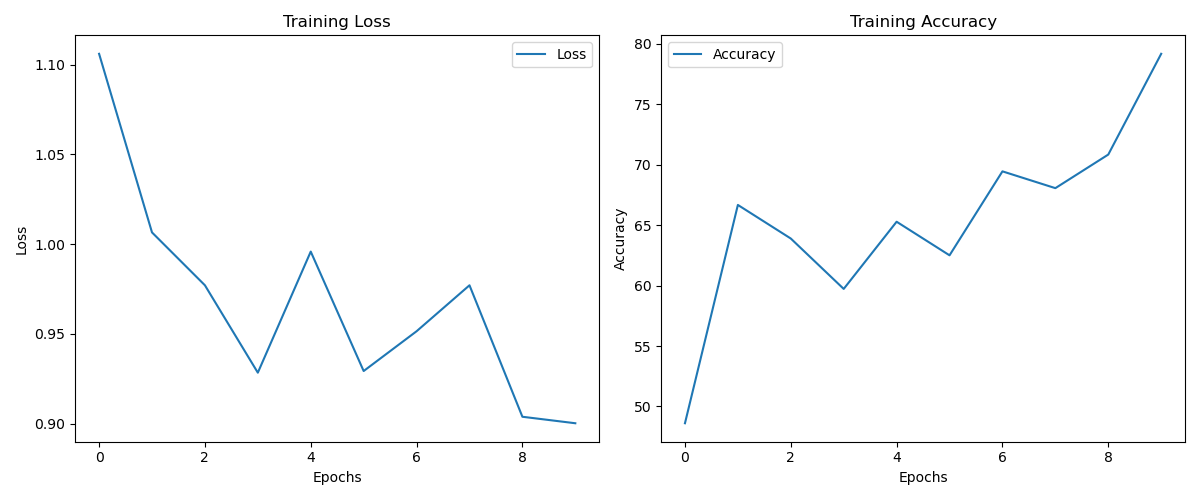
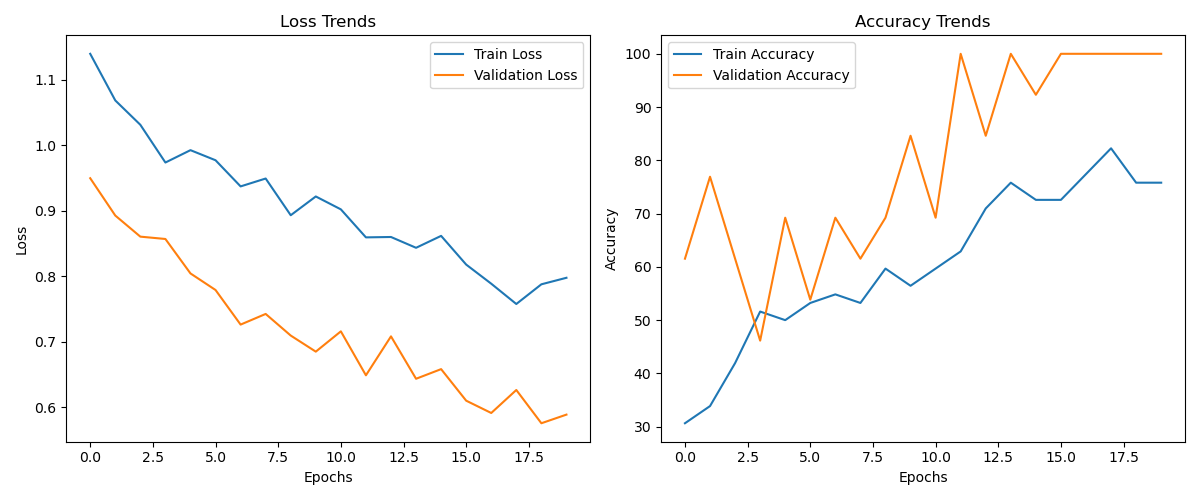
fifth commit

diff --git a/main.py b/main.py
@@ -18,17 +18,17 @@ INPUT_SIZE = 1024
 CLASS_NUM = 3
 LEARNING_RATE = 3e-4
 BATCH_SIZE = 32
-EPOCH_NUM = 50
-EARLY_STOPPING_PATIENCE = 5
+EPOCH_NUM = 80
+EARLY_STOPPING_PATIENCE = 8
 WEIGHT_DECAY = 1e-5
 
 # Change root directory to the directory where your datasets (images) are
-ROOT_DIR = "screenshots"
+ROOT_DIR = "your_datasets"
 
 # You need to create your own CSV file containing data labels
-# Currently data_labels.csv already contains sample format for your reference
+# Currently data_labels_sample.csv already contains sample format for your reference
 # You can edit it to tailor to your need
-CSV_FILE = "data_labels.csv"
+CSV_FILE = "data_labels_sample.csv"
 
 # Change to your own model file name if any
 MODEL_FILE = "model.pth.tar"
@@ -112,10 +112,8 @@ def train_model(model, train_loader, val_loader, criterion, optimizer, scheduler
         # Record metrics
         train_result["train_loss"].append(train_loss)
         train_result["val_loss"].append(val_loss)
-        # In the training loop, where you record the accuracies:
         train_result["train_accuracy"].append(train_accuracy.cpu().numpy())
         train_result["val_accuracy"].append(val_accuracy.cpu().numpy())
-
 
         # Print metrics
         print(f"Epoch [{epoch+1}/{num_epochs}], "
@@ -124,38 +122,35 @@ def train_model(model, train_loader, val_loader, criterion, optimizer, scheduler
               f"Train Accuracy: {train_accuracy:.2f}%, "
               f"Val Accuracy: {val_accuracy:.2f}%")
 
-        # # Save the best model
-        # if val_accuracy > best_val_accuracy:
-        #     best_val_accuracy = val_accuracy
-        #     save_model(model, optimizer, MODEL_FILE)
-        #     patience_counter = 0
-        # else:
-        #     patience_counter += 1
+        # Save the best model
+        if val_accuracy > best_val_accuracy:
+            best_val_accuracy = val_accuracy
+            save_model(model, optimizer, MODEL_FILE)
+            patience_counter = 0
+        else:
+            patience_counter += 1
 
-        # # Early stopping
-        # if patience_counter >= EARLY_STOPPING_PATIENCE:
-        #     print("Early stopping triggered.")
-        #     break
+        # Early stopping to prevent overfitting
+        if patience_counter >= EARLY_STOPPING_PATIENCE:
+            print("Early stopping triggered.")
+            break
 
-    # print(f"Best model saved with best accuracy: {best_val_accuracy:.4f}")
     return train_result
 
 
 def visualize_result(training_result, train_loader, val_loader, test_loader, model):
-    # Plot training metrics
+    """Visualize the training result with loss and accuracy plot, and confusion matrix."""
     plot_metrics(training_result)
 
-    # Check model's accuracy
-    print("Training Set Accuracy:")
-    check_accuracy(train_loader, model, device)
+    train_accuracy = check_accuracy(train_loader, model, device)
+    print(f"Training Set Accuracy: {train_accuracy:.2f}")
 
-    print("Validation Set Accuracy:")
-    check_accuracy(val_loader, model, device)
+    val_accuracy = check_accuracy(val_loader, model, device)
+    print(f"Validation Set Accuracy: {val_accuracy:.2f}")
 
-    print("Test Set Accuracy:")
-    check_accuracy(test_loader, model, device)
+    test_accuracy = check_accuracy(test_loader, model, device)
+    print(f"Test Set Accuracy: {test_accuracy:.2f}")
 
-    # Confusion matrix for the test set
     plot_confusion_matrix(test_loader, model, device)
 
 
@@ -170,18 +165,15 @@ def main():
     optimizer = optim.Adam(model.parameters(), lr=LEARNING_RATE, weight_decay=WEIGHT_DECAY)
     scheduler = torch.optim.lr_scheduler.ReduceLROnPlateau(optimizer, mode="min", factor=0.1, patience=2, verbose=True)
 
-    # Check if any model file exists in the directory
     if os.path.exists(MODEL_FILE):
         user_input = input(f"Model file '{MODEL_FILE}' detected. Do you want to load and train this model? (yes/no): ").strip().lower()
 
         if user_input == "yes":
             load_model(model, optimizer, MODEL_FILE)
 
-    # Print model summary
     print("Model Summary:")
     summary(model, input_size=(3, INPUT_SIZE, INPUT_SIZE))
 
-    # Data Augmentation
     transform = get_transform()
 
     dataset = ScreenshotDataset(
@@ -192,13 +184,10 @@ def main():
 
     train_loader, val_loader, test_loader = load_data(dataset)
 
-    # Visualize Augmented Samples
     visualize_augmentations(dataset)
 
-    # Train the model
     training_result = train_model(model, train_loader, val_loader, criterion, optimizer, scheduler, EPOCH_NUM, device)
 
-    # Visualize Training Results
     visualize_result(training_result, train_loader, val_loader, test_loader, model)
 
 

diff --git a/utils.py b/utils.py
@@ -37,19 +37,6 @@ def get_transform():
             A.Rotate(limit=40, p=0.8, border_mode=0, value=0),
             A.HorizontalFlip(p=0.5),
             A.VerticalFlip(p=0.2),
-            A.RGBShift(r_shift_limit=20, g_shift_limit=20, b_shift_limit=20, p=0.8),
-            A.OneOf(
-                [
-                    A.Blur(blur_limit=3, p=0.3),
-                    A.ColorJitter(p=0.3),
-                ],
-                p=1.0,
-            ),
-            A.Normalize(
-                mean=[0, 0, 0],
-                std=[1, 1, 1],
-                max_pixel_value=255,
-            ),
             ToTensorV2(),
         ]
     )
@@ -72,22 +59,16 @@ def check_accuracy(loader, model, device):
             num_samples += targets.size(0)
 
     accuracy = 100 * num_correct / num_samples
-    print(f"{accuracy:.2f}%")
 
     return accuracy
-
-
-def denormalize(image, mean=(0.485, 0.456, 0.406), std=(0.229, 0.224, 0.225)):
-    """Denormalize an image tensor."""
-    mean = torch.tensor(mean).view(1, 1, 3)
-    std = torch.tensor(std).view(1, 1, 3)
-    return (image * std) + mean
 
 
 def visualize_augmentations(dataset, num_samples=5):
     for i in range(num_samples):
         image, label = dataset[i]
-        image = denormalize(image.permute(1, 2, 0)).cpu().numpy()
+
+        if isinstance(image, torch.Tensor):
+            image = image.permute(1, 2, 0).numpy()
 
         plt.figure()
         plt.imshow(image)
@@ -111,7 +92,6 @@ def plot_metrics(history):
 
     # Accuracy plot
     plt.subplot(1, 2, 2)
-    # Ensure tensors are moved to the CPU before plotting
     plt.plot(history["train_accuracy"], label="Train Accuracy")
     plt.plot(history["val_accuracy"], label="Validation Accuracy") 
     plt.title("Accuracy Trends")
@@ -142,5 +122,6 @@ def plot_confusion_matrix(loader, model, device, title="Confusion Matrix"):
     cm = confusion_matrix(all_labels, all_preds)
     disp = ConfusionMatrixDisplay(confusion_matrix=cm, display_labels=range(len(cm)))
     disp.plot(cmap=plt.cm.Blues)
+    plt.gca().invert_yaxis()
     plt.title(title)
     plt.show()

diff --git a/dataset.py b/dataset.py
@@ -5,7 +5,6 @@ import numpy as np
 import pandas as pd
 from PIL import Image
 from torch.utils.data import Dataset
-from utils import get_transform
 
 
 class ScreenshotDataset(Dataset):
@@ -28,7 +27,7 @@ class ScreenshotDataset(Dataset):
         img_file, label = self.data[index]
         root_and_dir = os.path.join(self.root_dir, self.class_names[label])
         image = np.array(Image.open(os.path.join(root_and_dir, img_file)))
-    
+
         if self.transform is not None:
             augmentations = self.transform(image=image)
             image = augmentations["image"]

diff --git a/README.md b/README.md
@@ -1,14 +1,15 @@
 # Training with Custom Datasets
 
-This repository is a deep learning pipeline for classifying screenshots with advanced data augmentation using PyTorch and Albumentations. The project leverages transfer learning on Google's GoogLeNet to achieve high accuracy with minimal training data.
+This repository is a deep learning pipeline for classifying custom screenshots with data augmentation using PyTorch and Albumentations. The model is based on Google's GoogLeNet architecture and includes functionalities for data preprocessing, augmentation, training, validation, testing, and result visualization.
 
 
 ## Features
 
-- **Custom Dataset Handling:** Supports CSV-based annotation for screenshots.
-- **Data Augmentation:** Powered by Albumentations to enrich training data.
-- **Transfer Learning:** Fine-tuning GoogLeNet with frozen layers.
-- **Visualization:** Includes tools for augmentations, training metrics, and confusion matrix plotting.
+- **Custom Dataset Loader:** Handles loading and preprocessing of screenshots from a directory structure and CSV file.
+- **Data Augmentation:** Includes rotation, flipping, and padding to enhance model generalization.
+- **Training and Validation:** Implements training with early stopping and learning rate scheduling.
+- **Visualization:** Provides confusion matrix, metric plots, and augmented image samples for analysis.
+- **Model Persistence:** Saves and loads models for reuse and evaluation.
 
 
 ## Installation
@@ -25,6 +26,36 @@ pip install -r requirements.txt
 ```
 
 
+### File Structure
+```
+├── main.py                # Training script
+├── utils.py               # Utility functions
+├── dataset.py             # Custom dataset class
+├── your_datasets/         # Your images
+├── data_labels.csv        # CSV file with image labels
+├── model.pth.tar          # Your model
+├── requirements.txt       # Project dependencies
+└── .gitignore             # Ignored files for Git
+```
+
+
+### Dataset Structure
+```
+your_datasets/
+  ├── class1/
+  │   ├── image1.jpg
+  │   ├── image2.jpg
+  │   └── ...
+  ├── class2/
+  │   ├── image1.jpg
+  │   ├── image2.jpg
+  │   └── ...
+  └── ...
+
+```
+A CSV file named **data_labels.csv** should contain the mapping of filenames to their corresponding labels.
+
+
 ## Usage
 
 Run the training script with default parameters:
@@ -33,18 +64,6 @@ python main.py
 ```
 
 
-### File Structure
-```
-├── main.py                # Training script
-├── dataset.py             # Custom dataset class
-├── utils.py               # Utility functions
-├── your_datasets/         # Your images
-├── data_labels.csv        # CSV file with image labels
-├── best_model.pth         # Saved best model
-├── requirements.txt       # Project dependencies
-└── .gitignore             # Ignored files for Git
-```
-
 ## Visualization
 
 ### Training Loss and Accuracy
@@ -52,10 +71,6 @@ python main.py
 The training loss and accuracy.
 
 ![Training Loss And Accuracy](./assets/training-loss-and-accuracy.png)
-
-### Confusion Matrix
-
-![Confusion Matrix](./assets/confusion-matrix.png)
 
 
 ## Contribution
